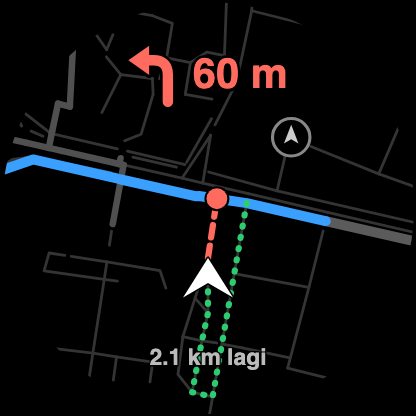
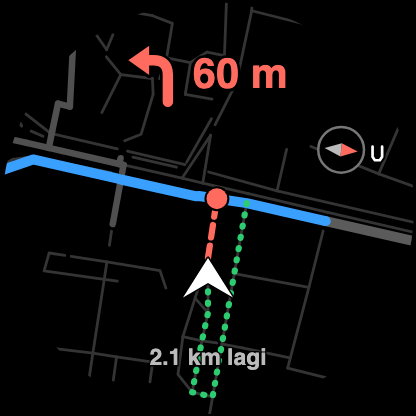
0.3.1-beta: north indicator, calmer compass, explore mode removed
- Real north indicator (red = north, U/N letter) on all nav screens, turns with the heading-up map
- Compass heading calmed while standing still: <5 deg ignored, big turns spread over a few steps
- Explore mode removed (setting, badge); off-route always vibrates once
- Store images: new north indicator, plus a destination route ready screen

Changed region(s): [[0.625, 0.2812, 0.9375, 0.4375]]

diff --git a/docs/store/render.html b/docs/store/render.html
@@ -8,7 +8,7 @@
 // (roads = "auto", alleys = "pedestrian"), metres east/north of the route start.
 // Map data © OpenStreetMap contributors (ODbL).
 // The ready screen shows a real 10.5 km foot loop around Monas (OSRM), the other screens Malioboro.
-// Usage: render.html?s=ready|approach|turn|off
+// Usage: render.html?s=ready|ready-dest|approach|turn|off
 const LOOP = [[0.0,0.0],[1.9,49.9],[13.0,49.8],[13.2,60.0],[37.1,59.5],[35.9,168.2],[105.6,173.1],[148.2,222.7],[171.0,222.2],[214.6,276.4],[225.1,330.2],[238.1,319.1],[260.8,321.1],[262.8,484.1],[307.7,590.6],[270.5,511.5],[260.5,464.4],[261.9,302.5],[273.2,282.3],[303.9,280.3],[396.4,330.9],[403.2,324.7],[446.5,355.0],[475.9,359.6],[663.1,463.7],[675.2,477.9],[696.4,468.0],[696.1,456.5],[720.6,439.0],[754.5,359.2],[785.6,329.5],[789.0,292.4],[922.4,66.8],[1000.9,-34.0],[1014.7,-42.0],[1007.8,-62.4],[1014.7,-42.0],[1073.0,-5.2],[1215.6,118.4],[1380.2,-73.3],[1244.2,-190.7],[1189.8,-252.4],[1193.6,-286.9],[1279.2,-410.4],[1239.0,-467.8],[1291.7,-620.4],[1281.4,-626.2],[1286.4,-634.1],[1275.6,-648.4],[1279.1,-659.5],[1176.7,-692.0],[1209.5,-819.3],[1319.1,-1134.1],[1271.2,-1152.9],[1227.5,-1181.7],[1197.3,-1184.6],[1188.5,-1209.4],[1217.9,-1208.2],[1209.5,-1319.6],[1238.9,-1321.3],[1250.0,-1398.9],[1307.3,-1395.6],[1228.8,-1400.1],[1137.3,-1374.7],[1122.2,-1408.3],[1121.5,-1435.7],[1095.3,-1452.5],[1072.0,-1415.4],[1034.0,-1437.2],[988.2,-1431.7],[984.7,-1464.4],[765.3,-1460.4],[762.6,-1508.1],[685.4,-1384.5],[672.7,-1394.1],[665.7,-1420.3],[648.2,-1430.1],[654.3,-1448.1],[653.8,-1576.3],[644.9,-1594.6],[513.6,-1714.5],[494.5,-1722.1],[482.0,-1746.1],[302.9,-1922.9],[292.1,-1966.0],[291.3,-2225.8],[-191.9,-2154.4],[-197.0,-2146.1],[-218.1,-2142.4],[-220.7,-2076.9],[-333.2,-2078.5],[-334.4,-2050.7],[-443.6,-2053.2],[-445.3,-1988.3],[-480.0,-1988.5],[-479.5,-2095.9],[-512.5,-2146.7],[-526.0,-2154.6],[-527.9,-2178.9],[-515.2,-2183.0],[-527.9,-2178.9],[-526.0,-2154.6],[-512.5,-2146.7],[-479.0,-2092.5],[-484.5,-1519.5],[-484.1,-1500.1],[-475.7,-1500.7],[-468.3,-1314.2],[-476.1,-1313.8],[-474.5,-1287.3],[-466.3,-1287.5],[-459.8,-1179.8],[-472.6,-904.7],[-434.6,-896.6],[-447.8,-834.2],[-458.2,-648.8],[-455.7,-630.3],[-435.7,-616.6],[-442.1,-550.6],[-433.1,-542.1],[-420.5,-554.2],[-311.0,-419.4],[-280.6,-425.9],[-306.0,-431.8],[-367.5,-509.4],[-306.0,-431.8],[-274.9,-420.8],[-288.2,-391.9],[-159.9,-233.5],[-143.5,-245.0],[-97.2,-193.4],[-37.0,-193.0],[-36.9,-80.6],[-14.5,-81.3],[-14.3,-72.1],[-1.1,-72.3],[-0.6,-30.4],[17.9,-30.6],[18.5,6.7],[0.2,6.9],[0.0,0.0]];   // real OSRM foot loop: Monas → Medan Merdeka → Cikini → Menteng → Bundaran HI → Thamrin → Monas
 const D = {"route":[[0.0,0.0],[0.0,0.0],[-1.7,-25.8],[-1.1,-27.4],[-3.2,-55.8],[-8.5,-104.1],[-13.3,-141.9],[-14.8,-153.2],[47.9,-160.5],[47.4,-164.0],[15.6,-414.6],[15.0,-419.2],[-0.3,-539.2],[9.5,-539.1],[17.8,-539.2],[5.2,-641.5],[-4.6,-720.6],[-6.9,-768.1],[-6.3,-771.7],[-15.4,-846.2],[-16.0,-850.2],[-24.3,-917.9],[-26.4,-934.3],[-11.5,-966.7],[-13.3,-968.0],[-13.5,-969.9],[-13.6,-973.4],[-13.7,-979.3],[-13.8,-985.6],[-15.7,-985.5],[-27.1,-985.6],[-28.7,-985.6],[-30.0,-985.7],[-31.4,-985.9],[-32.8,-986.2],[-34.2,-986.8],[-35.5,-987.3],[-36.7,-987.8],[-37.9,-988.4],[-39.2,-989.2],[-40.4,-989.9],[-41.5,-990.8],[-42.2,-991.7],[-43.0,-992.6],[-43.6,-993.5],[-43.8,-994.5],[-48.0,-1028.0],[-47.6,-1028.7],[-46.9,-1029.0],[-45.0,-1029.1],[-45.2,-1031.6],[-45.7,-1034.9],[-47.1,-1046.6],[-52.3,-1089.9],[-53.9,-1104.1],[-55.8,-1120.8],[-57.7,-1139.3],[-16.1,-1143.2],[23.9,-1146.7],[26.4,-1147.2],[28.7,-1147.8],[30.6,-1148.8],[32.2,-1149.8],[34.1,-1151.3],[35.7,-1152.6],[38.2,-1155.1],[40.3,-1157.8],[42.4,-1160.6],[44.0,-1163.2],[45.4,-1165.8],[46.9,-1168.4],[48.0,-1171.1],[49.0,-1173.5],[49.7,-1175.8],[50.6,-1178.8],[51.2,-1181.2],[51.4,-1183.3],[51.5,-1185.3],[51.4,-1187.2],[113.6,-1194.7],[128.9,-1196.5],[164.1,-1200.7],[163.7,-1207.6],[161.6,-1229.4],[161.4,-1244.0],[161.4,-1246.9],[163.5,-1272.8],[163.6,-1300.8],[164.0,-1346.0],[164.8,-1374.0],[167.4,-1398.9],[167.6,-1413.7],[169.4,-1430.5],[169.6,-1437.2],[170.7,-1466.2],[171.5,-1484.7],[172.9,-1504.0],[175.5,-1526.3],[181.3,-1575.5],[183.4,-1591.9],[235.1,-1589.2],[296.1,-1588.8],[297.0,-1645.1],[297.9,-1695.9],[298.7,-1755.2],[298.9,-1764.6],[298.7,-1769.9],[298.8,-1793.2],[298.9,-1831.1],[384.1,-1834.6],[418.4,-1835.1],[431.7,-1835.3],[431.1,-1842.4],[429.8,-1859.6],[427.4,-1890.8],[422.7,-1950.6],[418.3,-2023.8],[414.1,-2091.0],[409.2,-2134.9],[408.0,-2152.1],[406.1,-2178.0],[398.6,-2278.6],[421.0,-2280.1]],"roads":[{"c":1,"p":[[0.0,0.0],[-1.7,-25.8]]},{"c":1,"p":[[75.1,-9.2],[59.8,-132.1]]},{"c":1,"p":[[59.8,-132.1],[56.0,-161.4]]},{"c":1,"p":[[56.0,-161.4],[52.8,-187.4]]},{"c":1,"p":[[56.0,-161.4],[47.9,-160.5]]},{"c":1,"p":[[47.9,-160.5],[-14.8,-153.2]]},{"c":1,"p":[[-14.8,-153.2],[-22.8,-152.2]]},{"c":1,"p":[[52.8,-187.4],[30.7,-364.2]]},{"c":1,"p":[[-22.8,-152.2],[-132.2,-139.5]]},{"c":1,"p":[[-132.2,-139.5],[-174.5,-134.6]]},{"c":1,"p":[[-22.8,-152.2],[-18.9,-112.8],[-45.4,-110.1]]},{"c":1,"p":[[-132.2,-139.5],[-132.4,-119.6]]},{"c":1,"p":[[59.8,-132.1],[62.8,-132.2]]},{"c":1,"p":[[62.8,-132.2],[68.2,-132.5]]},{"c":1,"p":[[68.2,-132.5],[71.1,-132.8]]},{"c":1,"p":[[71.1,-132.8],[229.6,-140.9]]},{"c":1,"p":[[14.9,-419.2],[-66.5,-409.2]]},{"c":1,"p":[[-66.5,-409.2],[-110.2,-403.9]]},{"c":1,"p":[[-110.2,-403.9],[-132.1,-401.1]]},{"c":1,"p":[[-132.1,-401.1],[-151.0,-398.9]]},{"c":1,"p":[[-151.0,-398.9],[-186.1,-394.6]]},{"c":1,"p":[[-66.5,-409.2],[-66.1,-405.5]]},{"c":1,"p":[[-132.1,-401.1],[-129.0,-365.0]]},{"c":1,"p":[[-129.0,-365.0],[-113.5,-227.4]]},{"c":1,"p":[[-66.1,-405.5],[-61.0,-347.6]]},{"c":1,"p":[[-15.4,-846.2],[-30.0,-845.0]]},{"c":1,"p":[[-15.4,-846.2],[29.0,-849.8]]},{"c":1,"p":[[-30.0,-845.0],[-30.4,-849.4]]},{"c":1,"p":[[-30.4,-849.4],[-37.6,-906.8]]},{"c":1,"p":[[-37.6,-906.8],[-39.3,-920.0]]},{"c":1,"p":[[-39.3,-920.0],[-42.0,-942.1]]},{"c":1,"p":[[-42.0,-942.1],[-46.0,-974.4]]},{"c":1,"p":[[-46.0,-974.4],[-16.2,-973.3]]},{"c":1,"p":[[-16.2,-973.3],[-13.6,-973.4]]},{"c":1,"p":[[-46.0,-974.4],[-49.6,-1002.4]]},{"c":1,"p":[[-49.6,-1002.4],[-50.6,-1010.2]]},{"c":1,"p":[[-46.0,-974.4],[-78.9,-973.3]]},{"c":1,"p":[[-13.6,-973.4],[57.1,-976.0]]},{"c":1,"p":[[-50.6,-1010.2],[-53.3,-1030.7]]},{"c":1,"p":[[-53.3,-1030.7],[-55.1,-1045.7]]},{"c":1,"p":[[-55.1,-1045.7],[-56.2,-1053.9]]},{"c":1,"p":[[-56.2,-1053.9],[-60.7,-1089.2]]},{"c":1,"p":[[-78.9,-973.3],[-185.0,-969.5]]},{"c":1,"p":[[57.1,-976.0],[56.9,-978.6]]},{"c":1,"p":[[-185.0,-969.5],[-202.7,-968.9]]},{"c":1,"p":[[-60.7,-1089.2],[-67.1,-1138.6]]},{"c":1,"p":[[57.1,-976.0],[188.7,-980.5]]},{"c":1,"p":[[-202.7,-968.9],[-293.7,-965.6]]},{"c":1,"p":[[-67.1,-1138.6],[-57.7,-1139.3]]},{"c":1,"p":[[-67.1,-1138.6],[-67.9,-1145.1]]},{"c":1,"p":[[-57.7,-1139.3],[-16.1,-1143.2]]},{"c":1,"p":[[-67.9,-1145.1],[-119.9,-1140.3]]},{"c":1,"p":[[-185.0,-969.5],[-185.5,-975.7]]},{"c":1,"p":[[-185.5,-975.7],[-185.8,-978.8]]},{"c":1,"p":[[-53.3,-1030.7],[-45.3,-1031.6]]},{"c":1,"p":[[-50.6,-1010.2],[-55.8,-1009.6]]},{"c":1,"p":[[-55.8,-1009.6],[-60.1,-1009.0]]},{"c":1,"p":[[-60.1,-1009.0],[-62.6,-1008.7]]},{"c":1,"p":[[-45.3,-1031.6],[-9.5,-1036.0]]},{"c":1,"p":[[-30.4,-849.4],[-36.2,-848.6]]},{"c":1,"p":[[-39.3,-920.0],[-53.7,-918.5]]},{"c":1,"p":[[-53.7,-918.5],[-55.9,-918.3]]},{"c":1,"p":[[-185.8,-978.8],[-190.6,-1036.6]]},{"c":1,"p":[[-55.9,-918.3],[-83.6,-915.3]]},{"c":1,"p":[[-83.6,-915.3],[-81.9,-903.4]]},{"c":1,"p":[[-81.9,-903.4],[-164.2,-907.4]]},{"c":1,"p":[[-164.2,-907.4],[-159.7,-888.7]]},{"c":1,"p":[[-16.1,-1143.2],[32.2,-1149.8],[51.4,-1187.2]]},{"c":1,"p":[[51.4,-1187.2],[45.6,-1186.5]]},{"c":1,"p":[[113.6,-1194.7],[51.4,-1187.2]]},{"c":1,"p":[[128.9,-1196.5],[113.6,-1194.7]]},{"c":1,"p":[[51.4,-1187.2],[40.6,-1273.4]]},{"c":1,"p":[[164.0,-1200.7],[128.9,-1196.5]]},{"c":1,"p":[[164.0,-1200.7],[198.5,-1204.9]]},{"c":1,"p":[[40.6,-1273.4],[34.7,-1272.6]]},{"c":1,"p":[[40.6,-1273.4],[25.4,-1394.6]]},{"c":1,"p":[[25.4,-1394.6],[18.6,-1397.9]]},{"c":1,"p":[[198.5,-1204.9],[246.1,-1210.5]]},{"c":1,"p":[[164.0,-1200.7],[169.7,-1140.3]]},{"c":1,"p":[[161.6,-1229.4],[164.0,-1200.7]]},{"c":1,"p":[[161.4,-1244.0],[161.6,-1229.4]]},{"c":1,"p":[[161.4,-1246.9],[161.4,-1244.0]]},{"c":1,"p":[[18.6,-1397.9],[19.1,-1393.9]]},{"c":1,"p":[[246.1,-1210.5],[319.7,-1219.4]]},{"c":1,"p":[[319.7,-1219.4],[343.3,-1222.1]]},{"c":1,"p":[[161.4,-1246.9],[168.2,-1245.9]]},{"c":1,"p":[[343.3,-1222.1],[402.8,-1229.3]]},{"c":1,"p":[[19.1,-1393.9],[34.7,-1272.6]]},{"c":1,"p":[[164.0,-1346.0],[161.4,-1246.9]]},{"c":1,"p":[[168.2,-1245.9],[261.4,-1251.3]]},{"c":1,"p":[[289.7,-1254.7],[261.4,-1251.3]]},{"c":1,"p":[[167.4,-1398.9],[164.0,-1346.0]]},{"c":1,"p":[[261.4,-1251.3],[260.8,-1262.4]]},{"c":1,"p":[[164.0,-1346.0],[85.9,-1345.6]]},{"c":1,"p":[[198.5,-1204.9],[201.1,-1148.3]]},{"c":1,"p":[[289.7,-1254.7],[419.3,-1277.0]]},{"c":1,"p":[[293.0,-1346.6],[289.7,-1254.7]]},{"c":1,"p":[[319.7,-1219.4],[320.9,-1198.4]]},{"c":1,"p":[[320.9,-1198.4],[322.2,-1178.9]]},{"c":1,"p":[[18.6,-1397.9],[-27.9,-1393.8]]},{"c":1,"p":[[-27.9,-1393.8],[-33.2,-1453.2]]},{"c":1,"p":[[-27.9,-1393.8],[-192.0,-1378.9]]},{"c":1,"p":[[128.9,-1196.5],[116.2,-1183.1],[113.6,-1194.7]]},{"c":1,"p":[[246.1,-1210.5],[246.2,-1206.4]]},{"c":1,"p":[[246.2,-1206.4],[246.5,-1197.4]]},{"c":1,"p":[[246.5,-1197.4],[247.2,-1183.0]]},{"c":1,"p":[[247.2,-1183.0],[248.5,-1149.3]]},{"c":1,"p":[[247.2,-1183.0],[279.9,-1183.0],[282.3,-1155.8]]},{"c":1,"p":[[169.6,-1437.2],[169.4,-1430.5]]},{"c":1,"p":[[169.4,-1430.5],[167.4,-1398.9]]},{"c":1,"p":[[169.6,-1437.2],[175.5,-1526.3]]},{"c":1,"p":[[294.5,-1433.5],[169.6,-1437.2]]},{"c":1,"p":[[175.5,-1526.3],[181.3,-1575.5]]},{"c":1,"p":[[181.3,-1575.5],[183.3,-1591.9]]},{"c":1,"p":[[294.5,-1433.5],[293.5,-1373.8]]},{"c":1,"p":[[175.5,-1526.3],[98.2,-1530.3]]},{"c":1,"p":[[296.2,-1522.9],[175.5,-1526.3]]},{"c":1,"p":[[293.5,-1373.8],[293.0,-1346.6]]},{"c":1,"p":[[294.5,-1433.5],[355.0,-1432.4]]},{"c":1,"p":[[183.3,-1591.9],[187.4,-1645.2]]},{"c":1,"p":[[355.0,-1432.4],[379.6,-1432.3]]},{"c":1,"p":[[98.2,-1530.3],[66.0,-1532.0]]},{"c":1,"p":[[66.0,-1532.0],[58.3,-1534.1]]},{"c":1,"p":[[296.2,-1522.9],[294.5,-1433.5]]},{"c":1,"p":[[379.6,-1432.3],[413.8,-1431.6]]},{"c":1,"p":[[187.4,-1645.2],[189.7,-1693.7]]},{"c":1,"p":[[98.2,-1530.3],[97.4,-1565.6]]},{"c":1,"p":[[58.3,-1534.1],[13.7,-1554.0]]},{"c":1,"p":[[296.1,-1588.8],[296.2,-1522.9]]},{"c":1,"p":[[189.7,-1693.7],[176.8,-1746.8]]},{"c":1,"p":[[176.8,-1746.8],[173.4,-1765.1]]},{"c":1,"p":[[13.7,-1554.0],[10.3,-1583.0]]},{"c":1,"p":[[251.9,-1694.9],[189.7,-1693.7]]},{"c":1,"p":[[296.2,-1522.9],[408.4,-1518.2]]},{"c":1,"p":[[297.0,-1645.1],[296.1,-1588.8]]},{"c":1,"p":[[10.3,-1583.0],[7.7,-1621.1]]},{"c":1,"p":[[297.9,-1695.9],[251.9,-1694.9]]},{"c":1,"p":[[297.9,-1695.9],[297.0,-1645.1]]},{"c":1,"p":[[10.3,-1583.0],[-6.1,-1564.1]]},{"c":1,"p":[[413.8,-1431.6],[408.4,-1518.2]]},{"c":1,"p":[[173.4,-1765.1],[162.3,-1823.1]]},{"c":1,"p":[[413.8,-1431.6],[422.9,-1282.4]]},{"c":1,"p":[[7.7,-1621.1],[29.6,-1624.2]]},{"c":1,"p":[[7.7,-1621.1],[-1.4,-1702.5]]},{"c":1,"p":[[-6.1,-1564.1],[13.7,-1554.0]]},{"c":1,"p":[[-6.1,-1564.1],[-69.4,-1561.2]]},{"c":1,"p":[[398.9,-1645.9],[408.4,-1518.2]]},{"c":1,"p":[[293.0,-1346.6],[223.3,-1346.4]]},{"c":1,"p":[[223.3,-1346.4],[205.5,-1346.3]]},{"c":1,"p":[[223.3,-1346.4],[223.0,-1328.1]]},{"c":1,"p":[[298.9,-1764.6],[173.4,-1765.1]]},{"c":1,"p":[[298.7,-1755.2],[298.9,-1764.6]]},{"c":1,"p":[[298.7,-1755.2],[314.9,-1755.0]]},{"c":1,"p":[[314.9,-1755.0],[320.9,-1755.0]]},{"c":1,"p":[[298.9,-1764.6],[298.7,-1769.9]]},{"c":1,"p":[[320.9,-1755.0],[332.5,-1754.9]]},{"c":1,"p":[[298.7,-1755.2],[297.9,-1695.9]]},{"c":1,"p":[[298.7,-1769.9],[298.9,-1831.1]]},{"c":1,"p":[[298.7,-1769.9],[389.7,-1773.5]]},{"c":1,"p":[[384.1,-1834.6],[298.9,-1831.1]]},{"c":1,"p":[[384.1,-1834.6],[389.7,-1773.5]]},{"c":1,"p":[[298.9,-1831.1],[161.8,-1829.4]]},{"c":1,"p":[[431.7,-1835.3],[384.1,-1834.6]]},{"c":1,"p":[[389.7,-1773.5],[398.9,-1645.9]]},{"c":1,"p":[[384.1,-1834.6],[379.2,-1910.4]]},{"c":1,"p":[[161.8,-1829.4],[153.2,-1890.6]]},{"c":1,"p":[[162.3,-1823.1],[161.8,-1829.4]]},{"c":1,"p":[[431.7,-1835.3],[440.7,-1721.5]]},{"c":1,"p":[[379.2,-1910.4],[373.3,-1991.9]]},{"c":1,"p":[[429.8,-1859.5],[431.7,-1835.3]]},{"c":1,"p":[[427.4,-1890.8],[429.8,-1859.5]]},{"c":1,"p":[[429.8,-1859.5],[435.2,-1859.7]]},{"c":1,"p":[[153.2,-1890.6],[145.4,-1970.6]]},{"c":1,"p":[[422.7,-1950.6],[427.4,-1890.8]]},{"c":1,"p":[[440.7,-1721.5],[446.8,-1600.6]]},{"c":1,"p":[[373.3,-1991.9],[368.0,-2071.9]]},{"c":1,"p":[[373.3,-1991.9],[358.9,-1990.8]]},{"c":1,"p":[[440.7,-1721.5],[493.0,-1718.5]]},{"c":1,"p":[[358.9,-1990.8],[342.0,-1989.3]]},{"c":1,"p":[[153.2,-1890.6],[30.6,-1879.1]]},{"c":1,"p":[[418.3,-2023.8],[422.7,-1950.6]]},{"c":1,"p":[[153.2,-1890.6],[379.2,-1910.4]]},{"c":1,"p":[[422.7,-1950.6],[433.8,-1951.0]]},{"c":1,"p":[[433.8,-1951.0],[434.8,-1951.0]]},{"c":1,"p":[[435.2,-1859.7],[446.1,-1860.1]]},{"c":1,"p":[[446.1,-1860.1],[459.0,-1860.4]]},{"c":1,"p":[[459.0,-1860.4],[508.8,-1861.9]]},{"c":1,"p":[[508.8,-1861.9],[537.5,-1862.8]]},{"c":1,"p":[[446.1,-1860.1],[440.1,-1890.7],[427.4,-1890.8]]},{"c":1,"p":[[434.8,-1951.0],[451.5,-1940.9]]},{"c":1,"p":[[409.2,-2134.9],[414.1,-2091.0]]},{"c":1,"p":[[414.1,-2091.0],[418.3,-2023.8]]},{"c":1,"p":[[409.2,-2134.9],[398.6,-2278.6]]},{"c":1,"p":[[398.6,-2278.6],[394.1,-2340.7]]},{"c":1,"p":[[418.3,-2023.8],[457.9,-2025.4]]},{"c":1,"p":[[394.1,-2340.7],[390.5,-2368.0]]},{"c":1,"p":[[390.5,-2368.0],[393.5,-2440.9]]},{"c":1,"p":[[394.1,-2340.7],[462.8,-2347.4]]},{"c":1,"p":[[462.8,-2347.4],[484.0,-2312.7]]},{"c":1,"p":[[409.2,-2134.9],[443.8,-2138.2]]},{"c":1,"p":[[443.8,-2138.2],[475.6,-2139.8]]},{"c":1,"p":[[475.6,-2139.8],[513.4,-2144.5]]},{"c":1,"p":[[513.4,-2144.5],[516.8,-2145.0]]},{"c":1,"p":[[516.8,-2145.0],[537.0,-2148.2]]},{"c":1,"p":[[537.0,-2148.2],[566.6,-2152.8]]},{"c":1,"p":[[537.0,-2148.2],[542.1,-2117.7]]},{"c":1,"p":[[566.6,-2152.8],[597.1,-2160.9]]},{"c":1,"p":[[597.1,-2160.9],[668.5,-2170.6]]},{"c":1,"p":[[451.5,-1940.9],[517.4,-1939.6],[522.7,-1966.6],[573.4,-1974.6]]},{"c":1,"p":[[573.4,-1974.6],[617.3,-1981.2]]},{"c":1,"p":[[393.5,-2440.9],[393.9,-2451.2]]},{"c":1,"p":[[393.5,-2440.9],[447.2,-2445.4]]},{"c":1,"p":[[447.2,-2445.4],[458.7,-2452.0]]},{"c":1,"p":[[458.7,-2452.0],[501.7,-2459.6]]},{"c":1,"p":[[501.7,-2459.6],[549.8,-2468.1]]},{"c":1,"p":[[393.9,-2451.2],[385.8,-2452.4]]},{"c":1,"p":[[385.8,-2452.4],[373.1,-2457.0]]},{"c":1,"p":[[373.1,-2457.0],[356.4,-2463.2]]},{"c":1,"p":[[356.4,-2463.2],[356.5,-2480.4]]},{"c":1,"p":[[373.1,-2457.0],[385.2,-2446.4]]},{"c":1,"p":[[356.4,-2463.2],[342.0,-2460.7]]},{"c":1,"p":[[356.4,-2463.2],[355.4,-2453.2]]},{"c":1,"p":[[385.2,-2446.4],[385.0,-2442.3]]},{"c":1,"p":[[356.5,-2480.4],[373.1,-2457.0]]},{"c":1,"p":[[342.0,-2460.7],[261.3,-2450.9]]},{"c":1,"p":[[356.5,-2480.4],[342.0,-2460.7]]},{"c":1,"p":[[385.0,-2442.3],[391.0,-2441.3]]},{"c":1,"p":[[385.2,-2446.4],[391.0,-2441.3]]},{"c":1,"p":[[391.0,-2441.3],[393.5,-2440.9]]},{"c":1,"p":[[385.0,-2442.3],[390.5,-2368.0]]},{"c":1,"p":[[501.7,-2459.6],[503.4,-2449.2]]},{"c":1,"p":[[553.6,-2460.8],[568.2,-2371.6]]},{"c":1,"p":[[484.0,-2312.7],[486.4,-2290.9]]},{"c":1,"p":[[486.4,-2290.9],[516.9,-2291.9]]},{"c":1,"p":[[484.0,-2312.7],[547.9,-2319.5],[553.4,-2281.1]]},{"c":1,"p":[[486.4,-2290.9],[492.3,-2233.2],[558.6,-2241.8]]},{"c":1,"p":[[553.4,-2281.1],[558.6,-2241.8]]},{"c":1,"p":[[553.4,-2281.1],[587.0,-2284.8]]},{"c":1,"p":[[558.6,-2241.8],[562.5,-2197.2]]},{"c":1,"p":[[587.0,-2284.8],[568.2,-2371.6]]},{"c":1,"p":[[503.4,-2449.2],[509.2,-2411.4]]},{"c":0,"p":[[-1.7,-25.8],[-3.2,-55.8]]},{"c":0,"p":[[-3.2,-55.8],[-38.1,-55.3]]},{"c":0,"p":[[-1.7,-25.8],[-65.6,-16.8],[-76.9,3.8]]},{"c":0,"p":[[-79.5,12.5],[-83.0,30.1]]},{"c":0,"p":[[-83.0,30.1],[-86.7,42.0]]},{"c":0,"p":[[-13.3,-141.9],[-3.2,-55.8]]},{"c":0,"p":[[-79.5,12.5],[-48.4,30.1]]},{"c":0,"p":[[-86.7,42.0],[-90.0,97.6]]},{"c":0,"p":[[-90.0,97.6],[-70.8,96.9]]},{"c":0,"p":[[-90.0,97.6],[-127.3,100.1]]},{"c":0,"p":[[-70.8,96.9],[-30.6,94.4]]},{"c":0,"p":[[-127.3,100.1],[-149.2,101.1]]},{"c":0,"p":[[-70.8,96.9],[-74.3,157.9]]},{"c":0,"p":[[-149.2,101.1],[-172.7,102.1]]},{"c":0,"p":[[-30.6,94.4],[-6.4,92.9]]},{"c":0,"p":[[-30.6,94.4],[-30.2,117.3]]},{"c":0,"p":[[64.5,-188.5],[105.0,-191.8]]},{"c":0,"p":[[61.2,-188.1],[68.2,-132.5]]},{"c":0,"p":[[-6.4,92.9],[46.7,89.8]]},{"c":0,"p":[[-74.3,157.9],[-72.2,221.6]]},{"c":0,"p":[[-74.3,157.9],[-5.0,159.1]]},{"c":0,"p":[[105.0,-191.8],[105.0,-217.0]]},{"c":0,"p":[[46.7,89.8],[79.4,88.0]]},{"c":0,"p":[[-174.5,-134.6],[-181.3,-216.7]]},{"c":0,"p":[[48.3,-156.6],[71.5,25.5]]},{"c":0,"p":[[-186.2,-133.3],[-317.1,-118.1]]},{"c":0,"p":[[39.9,-360.1],[61.2,-188.1]]},{"c":0,"p":[[105.0,-191.8],[235.0,-196.1]]},{"c":0,"p":[[15.6,-414.6],[47.4,-164.0]]},{"c":0,"p":[[-186.2,-133.3],[-196.0,-67.3]]},{"c":0,"p":[[68.2,-132.5],[82.5,-15.9]]},{"c":0,"p":[[-79.5,12.5],[-106.5,8.0]]},{"c":0,"p":[[-106.5,8.0],[-138.1,1.0]]},{"c":0,"p":[[-138.1,1.0],[-150.4,-2.2]]},{"c":0,"p":[[-150.4,-2.2],[-173.4,-5.3]]},{"c":0,"p":[[-106.5,8.0],[-96.6,-75.4],[-126.5,-90.0]]},{"c":0,"p":[[-138.1,1.0],[-126.5,-90.0]]},{"c":0,"p":[[-126.5,-90.0],[-132.4,-119.6]]},{"c":0,"p":[[-127.3,100.1],[-114.2,199.0]]},{"c":0,"p":[[-6.4,92.9],[-5.0,159.1]]},{"c":0,"p":[[-149.2,101.1],[-151.1,40.2]]},{"c":0,"p":[[-172.7,102.1],[-174.5,40.1]]},{"c":0,"p":[[-23.5,-155.4],[-26.1,-174.3]]},{"c":0,"p":[[-113.5,-227.4],[-46.7,-236.8],[-26.1,-174.3]]},{"c":0,"p":[[23.7,-420.3],[30.7,-364.2]]},{"c":0,"p":[[33.0,-416.6],[36.4,-379.5]]},{"c":0,"p":[[33.0,-416.6],[38.8,-369.0]]},{"c":0,"p":[[39.4,-365.1],[68.3,-368.0]]},{"c":0,"p":[[-0.3,-539.2],[14.9,-419.2]]},{"c":0,"p":[[9.5,-539.1],[23.7,-420.3]]},{"c":0,"p":[[17.8,-539.2],[32.4,-420.9]]},{"c":0,"p":[[-0.3,-539.2],[-31.0,-532.6]]},{"c":0,"p":[[32.4,-420.9],[185.5,-433.8]]},{"c":0,"p":[[-31.0,-532.6],[-84.4,-520.9]]},{"c":0,"p":[[185.5,-433.8],[189.7,-403.7]]},{"c":0,"p":[[-3.6,-640.2],[9.5,-539.1]]},{"c":0,"p":[[-110.2,-403.9],[-129.6,-509.5]]},{"c":0,"p":[[185.5,-433.8],[257.2,-439.7]]},{"c":0,"p":[[-84.4,-520.9],[-129.6,-509.5]]},{"c":0,"p":[[-19.7,-692.0],[-0.3,-539.2]]},{"c":0,"p":[[-129.0,-365.0],[-189.8,-356.2]]},{"c":0,"p":[[5.1,-641.5],[17.8,-539.2]]},{"c":0,"p":[[-84.4,-520.9],[-103.2,-576.1]]},{"c":0,"p":[[-31.8,-535.7],[-46.3,-594.0]]},{"c":0,"p":[[17.8,-539.2],[170.6,-544.5]]},{"c":0,"p":[[-151.0,-398.9],[-173.6,-501.5]]},{"c":0,"p":[[185.5,-433.8],[170.6,-544.5]]},{"c":0,"p":[[-132.8,-508.9],[-173.6,-501.5]]},{"c":0,"p":[[-14.0,-719.9],[-10.6,-693.1]]},{"c":0,"p":[[-103.2,-576.1],[-139.1,-564.9]]},{"c":0,"p":[[-19.7,-692.0],[-61.2,-686.7]]},{"c":0,"p":[[-10.6,-693.1],[-3.6,-640.2]]},{"c":0,"p":[[-132.8,-508.9],[-139.1,-564.9]]},{"c":0,"p":[[15.2,-642.9],[71.8,-651.3]]},{"c":0,"p":[[-103.2,-576.1],[-46.3,-594.0]]},{"c":0,"p":[[-173.6,-501.5],[-208.1,-492.2]]},{"c":0,"p":[[-31.4,-761.0],[-19.7,-692.0]]},{"c":0,"p":[[-4.6,-720.6],[5.1,-641.5]]},{"c":0,"p":[[-46.3,-594.0],[-66.5,-663.2]]},{"c":0,"p":[[170.6,-544.5],[224.8,-544.6]]},{"c":0,"p":[[-20.0,-765.6],[-14.0,-719.9]]},{"c":0,"p":[[-173.6,-501.5],[-189.5,-584.3]]},{"c":0,"p":[[-6.3,-771.7],[-4.6,-720.6]]},{"c":0,"p":[[65.8,-725.8],[71.8,-651.3]]},{"c":0,"p":[[-4.6,-720.6],[65.8,-725.8]]},{"c":0,"p":[[-189.8,-356.2],[-181.3,-216.7]]},{"c":0,"p":[[71.8,-651.3],[153.0,-664.2]]},{"c":0,"p":[[-113.5,-227.4],[-181.3,-216.7]]},{"c":0,"p":[[68.3,-368.0],[111.8,-372.3]]},{"c":0,"p":[[111.8,-372.3],[167.4,-377.9]]},{"c":0,"p":[[111.8,-372.3],[117.0,-310.6]]},{"c":0,"p":[[167.4,-377.9],[190.8,-395.4]]},{"c":0,"p":[[190.8,-395.4],[206.0,-396.2]]},{"c":0,"p":[[206.0,-396.2],[244.5,-398.1]]},{"c":0,"p":[[167.4,-377.9],[182.6,-365.4]]},{"c":0,"p":[[206.0,-396.2],[207.3,-382.1]]},{"c":0,"p":[[117.0,-310.6],[148.5,-313.5]]},{"c":0,"p":[[207.3,-382.1],[203.2,-368.5]]},{"c":0,"p":[[182.6,-365.4],[203.2,-368.5]]},{"c":0,"p":[[170.6,-544.5],[153.0,-664.2]]},{"c":0,"p":[[182.6,-365.4],[183.1,-341.3]]},{"c":0,"p":[[117.0,-310.6],[124.3,-222.2],[141.6,-199.9],[309.3,-204.6]]},{"c":0,"p":[[207.3,-382.1],[245.3,-385.3]]},{"c":0,"p":[[203.2,-368.5],[204.8,-342.8]]},{"c":0,"p":[[183.1,-341.3],[204.8,-342.8]]},{"c":0,"p":[[148.5,-313.5],[172.1,-316.1],[183.1,-341.3]]},{"c":0,"p":[[204.8,-342.8],[209.8,-318.0]]},{"c":0,"p":[[148.5,-313.5],[151.2,-241.2]]},{"c":0,"p":[[209.8,-318.0],[257.3,-320.1]]},{"c":0,"p":[[209.8,-318.0],[213.0,-268.1]]},{"c":0,"p":[[-26.8,-912.6],[-21.3,-856.5]]},{"c":0,"p":[[-24.3,-917.9],[-16.0,-850.2]]},{"c":0,"p":[[36.1,-850.3],[50.2,-851.0]]},{"c":0,"p":[[-30.0,-845.0],[-22.7,-786.4]]},{"c":0,"p":[[-26.4,-934.3],[-24.3,-917.9]]},{"c":0,"p":[[-15.4,-846.2],[-6.3,-771.7]]},{"c":0,"p":[[-27.5,-941.8],[-28.0,-922.7]]},{"c":0,"p":[[-24.4,-954.2],[-27.5,-941.8]]},{"c":0,"p":[[-22.7,-786.4],[-20.0,-765.6]]},{"c":0,"p":[[-22.7,-786.4],[-36.4,-779.1]]},{"c":0,"p":[[-13.5,-969.9],[-24.4,-954.2]]},{"c":0,"p":[[-20.0,-765.6],[-32.0,-764.8]]},{"c":0,"p":[[-11.5,-966.7],[-26.4,-934.3]]},{"c":0,"p":[[-7.8,-966.8],[-24.4,-954.2]]},{"c":0,"p":[[-54.0,-939.0],[-50.2,-926.8]]},{"c":0,"p":[[-36.4,-779.1],[-67.6,-762.6]]},{"c":0,"p":[[-32.0,-764.8],[-67.6,-762.6]]},{"c":0,"p":[[66.7,-851.8],[84.2,-852.7]]},{"c":0,"p":[[-78.6,-966.9],[-58.1,-948.7]]},{"c":0,"p":[[-84.0,-965.6],[-58.1,-948.7]]},{"c":0,"p":[[-32.9,-792.9],[-38.5,-836.7]]},{"c":0,"p":[[-38.7,-783.5],[-83.8,-763.4]]},{"c":0,"p":[[84.2,-852.7],[84.6,-839.6]]},{"c":0,"p":[[-38.9,-995.3],[-19.1,-989.7]]},{"c":0,"p":[[-46.0,-974.4],[-16.5,-979.2]]},{"c":0,"p":[[-36.3,-784.8],[-43.8,-842.6]]},{"c":0,"p":[[66.7,-851.8],[64.9,-887.3]]},{"c":0,"p":[[-78.2,-759.3],[-121.7,-742.5]]},{"c":0,"p":[[-44.1,-1025.7],[-39.9,-1000.5]]},{"c":0,"p":[[-82.8,-965.7],[-53.9,-919.9]]},{"c":0,"p":[[-53.4,-916.3],[-45.0,-852.7]]},{"c":0,"p":[[-13.7,-979.3],[56.5,-981.9]]},{"c":0,"p":[[-14.9,-989.9],[43.9,-994.5]]},{"c":0,"p":[[66.7,-851.8],[70.1,-798.9],[86.7,-791.4]]},{"c":0,"p":[[-59.3,-1003.4],[-73.5,-982.3]]},{"c":0,"p":[[84.2,-852.7],[157.6,-856.6]]},{"c":0,"p":[[-45.0,-1029.1],[-40.9,-995.5]]},{"c":0,"p":[[54.2,-1002.3],[70.4,-998.0]]},{"c":0,"p":[[157.6,-856.6],[158.9,-833.0]]},{"c":0,"p":[[157.6,-856.6],[190.0,-858.2]]},{"c":0,"p":[[57.2,-1006.9],[86.5,-1009.0]]},{"c":0,"p":[[-65.5,-1052.6],[-60.1,-1009.0]]},{"c":0,"p":[[84.2,-852.7],[81.7,-912.5],[63.7,-909.3],[64.5,-893.7]]},{"c":0,"p":[[-52.3,-1089.9],[-47.1,-1046.6]]},{"c":0,"p":[[-121.7,-742.5],[-193.7,-734.6]]},{"c":0,"p":[[86.5,-1009.0],[87.0,-995.0]]},{"c":0,"p":[[158.9,-833.0],[181.9,-833.9]]},{"c":0,"p":[[-53.9,-1104.1],[-52.3,-1089.9]]},{"c":0,"p":[[-69.9,-1088.2],[-65.5,-1052.6]]},{"c":0,"p":[[-81.0,-981.0],[-185.5,-975.7]]},{"c":0,"p":[[-71.8,-1102.6],[-69.9,-1088.2]]},{"c":0,"p":[[157.6,-856.6],[156.6,-906.8],[185.0,-907.9]]},{"c":0,"p":[[-185.5,-975.7],[-203.5,-974.9]]},{"c":0,"p":[[65.8,-725.8],[136.1,-731.0]]},{"c":0,"p":[[158.9,-833.0],[160.6,-797.1],[180.1,-797.8]]},{"c":0,"p":[[-7.8,-966.8],[181.9,-973.6]]},{"c":0,"p":[[-57.7,-1139.3],[-53.9,-1104.1]]},{"c":0,"p":[[-40.9,-995.5],[50.2,-999.4]]},{"c":0,"p":[[56.5,-981.9],[169.3,-986.2]]},{"c":0,"p":[[-76.3,-1137.7],[-71.8,-1102.6]]},{"c":0,"p":[[86.5,-1009.0],[156.7,-1014.2]]},{"c":0,"p":[[60.6,-1010.8],[152.9,-1018.3]]},{"c":0,"p":[[135.4,-736.1],[134.9,-750.9]]},{"c":0,"p":[[-193.7,-734.6],[-261.1,-735.6]]},{"c":0,"p":[[169.3,-986.2],[168.4,-999.8]]},{"c":0,"p":[[134.9,-750.9],[132.5,-770.0]]},{"c":0,"p":[[167.4,-1015.0],[168.4,-999.8]]},{"c":0,"p":[[134.9,-750.9],[106.7,-747.7]]},{"c":0,"p":[[-76.3,-1137.7],[-119.4,-1133.8]]},{"c":0,"p":[[136.1,-731.0],[188.6,-734.9]]},{"c":0,"p":[[-84.0,-965.6],[-298.6,-958.5]]},{"c":0,"p":[[106.7,-747.7],[93.6,-761.8]]},{"c":0,"p":[[176.9,-1015.8],[196.3,-1017.3]]},{"c":0,"p":[[169.3,-986.2],[232.1,-988.7]]},{"c":0,"p":[[132.5,-770.0],[93.6,-761.8]]},{"c":0,"p":[[134.9,-750.9],[186.1,-755.5]]},{"c":0,"p":[[-203.9,-978.4],[-212.6,-1079.1]]},{"c":0,"p":[[188.6,-734.9],[186.1,-755.5]]},{"c":0,"p":[[-193.7,-734.6],[-176.9,-620.6]]},{"c":0,"p":[[93.6,-761.8],[52.9,-753.1]]},{"c":0,"p":[[106.7,-747.7],[52.9,-753.1]]},{"c":0,"p":[[132.5,-770.0],[170.1,-771.1],[186.1,-755.5]]},{"c":0,"p":[[199.1,-916.0],[199.1,-938.6],[179.4,-936.6]]},{"c":0,"p":[[188.6,-734.9],[356.9,-747.3]]},{"c":0,"p":[[-117.2,-760.1],[-120.2,-748.2]]},{"c":0,"p":[[-103.1,-764.8],[-105.1,-791.5]]},{"c":0,"p":[[-117.2,-760.1],[-147.1,-756.9]]},{"c":0,"p":[[-147.1,-756.9],[-148.7,-774.4]]},{"c":0,"p":[[-105.1,-791.5],[-136.9,-789.5]]},{"c":0,"p":[[55.3,-993.1],[87.0,-995.0]]},{"c":0,"p":[[-148.7,-774.4],[-136.9,-789.5]]},{"c":0,"p":[[-136.9,-789.5],[-139.0,-813.4]]},{"c":0,"p":[[-139.0,-813.4],[-118.1,-818.2]]},{"c":0,"p":[[-117.5,-825.2],[-102.1,-823.0]]},{"c":0,"p":[[-147.1,-756.9],[-233.6,-762.3]]},{"c":0,"p":[[-139.0,-813.4],[-173.5,-811.1],[-179.1,-831.2]]},{"c":0,"p":[[-117.5,-825.2],[-118.2,-856.6]]},{"c":0,"p":[[87.0,-995.0],[168.4,-999.8]]},{"c":0,"p":[[-179.1,-831.2],[-180.4,-848.4]]},{"c":0,"p":[[-118.2,-856.6],[-134.2,-872.5]]},{"c":0,"p":[[-102.1,-823.0],[-61.8,-830.8],[-53.7,-846.3]]},{"c":0,"p":[[-118.2,-856.6],[-79.1,-871.5]]},{"c":0,"p":[[-141.2,-872.9],[-156.5,-868.3]]},{"c":0,"p":[[-141.2,-872.9],[-159.7,-888.7]]},{"c":0,"p":[[168.4,-999.8],[230.2,-1003.5],[232.1,-988.7]]},{"c":0,"p":[[136.2,-729.1],[137.6,-710.6]]},{"c":0,"p":[[167.1,-1019.4],[163.9,-1065.8]]},{"c":0,"p":[[137.6,-710.6],[142.9,-663.0]]},{"c":0,"p":[[55.9,-1019.3],[47.5,-1032.6]]},{"c":0,"p":[[55.9,-1019.3],[98.3,-1021.6]]},{"c":0,"p":[[175.5,-962.3],[141.8,-961.1]]},{"c":0,"p":[[45.6,-1052.8],[16.1,-1049.0],[18.9,-1029.2]]},{"c":0,"p":[[108.0,-1022.2],[156.0,-1024.8]]},{"c":0,"p":[[45.6,-1052.8],[126.0,-1059.3]]},{"c":0,"p":[[156.0,-1024.8],[159.3,-1056.1],[141.9,-1060.6]]},{"c":0,"p":[[191.9,-955.0],[142.5,-936.6],[141.8,-961.1]]},{"c":0,"p":[[-130.8,-1132.8],[-149.8,-1131.0]]},{"c":0,"p":[[-149.8,-1131.0],[-182.6,-1132.4]]},{"c":0,"p":[[-130.8,-1132.8],[-129.4,-1103.3]]},{"c":0,"p":[[-129.4,-1103.3],[-148.3,-1101.5]]},{"c":0,"p":[[-149.8,-1131.0],[-148.3,-1101.5]]},{"c":0,"p":[[34.7,-1272.6],[45.6,-1186.5]]},{"c":0,"p":[[-148.3,-1101.5],[-174.5,-1099.1]]},{"c":0,"p":[[-129.4,-1103.3],[-80.1,-1107.8]]},{"c":0,"p":[[-182.6,-1132.4],[-199.3,-1198.0]]},{"c":0,"p":[[45.6,-1186.5],[28.0,-1155.1],[-16.7,-1149.8]]},{"c":0,"p":[[-199.3,-1198.0],[-207.3,-1265.8]]},{"c":0,"p":[[-192.8,-1198.6],[-200.8,-1266.3]]},{"c":0,"p":[[-16.7,-1149.8],[-67.9,-1145.1]]},{"c":0,"p":[[-207.3,-1265.8],[-232.5,-1263.7]]},{"c":0,"p":[[164.0,-1346.0],[205.5,-1346.3]]},{"c":0,"p":[[-207.3,-1265.8],[-211.7,-1302.3]]},{"c":0,"p":[[-192.8,-1198.6],[-181.0,-1139.7],[-119.9,-1140.3]]},{"c":0,"p":[[343.3,-1222.1],[350.2,-1160.4]]},{"c":0,"p":[[-182.6,-1132.4],[-188.6,-1100.1]]},{"c":0,"p":[[167.4,-1398.9],[126.3,-1397.6]]},{"c":0,"p":[[169.4,-1430.5],[126.8,-1429.1],[126.3,-1397.6]]},{"c":0,"p":[[126.3,-1397.6],[76.5,-1394.2]]},{"c":0,"p":[[76.5,-1394.2],[85.9,-1345.6]]},{"c":0,"p":[[181.3,-1575.5],[138.2,-1576.3]]},{"c":0,"p":[[76.5,-1394.2],[63.4,-1455.4]]},{"c":0,"p":[[63.4,-1455.4],[64.7,-1479.2]]},{"c":0,"p":[[66.0,-1532.0],[64.7,-1479.2]]},{"c":0,"p":[[296.1,-1588.8],[183.3,-1591.9]]},{"c":0,"p":[[379.6,-1432.3],[383.8,-1377.4]]},{"c":0,"p":[[187.4,-1645.2],[107.2,-1645.4]]},{"c":0,"p":[[63.4,-1455.4],[-33.2,-1453.2]]},{"c":0,"p":[[58.3,-1534.1],[47.2,-1633.0]]},{"c":0,"p":[[293.5,-1373.8],[354.8,-1373.1],[355.0,-1432.4]]},{"c":0,"p":[[251.9,-1694.9],[253.0,-1666.9]]},{"c":0,"p":[[50.8,-1631.0],[97.7,-1631.6]]},{"c":0,"p":[[176.8,-1746.8],[105.5,-1745.8]]},{"c":0,"p":[[38.8,-1724.2],[47.2,-1633.0]]},{"c":0,"p":[[173.4,-1765.1],[90.7,-1765.0]]},{"c":0,"p":[[297.0,-1645.1],[398.9,-1645.9]]},{"c":0,"p":[[332.5,-1754.9],[332.5,-1725.8]]},{"c":0,"p":[[332.5,-1725.8],[332.6,-1709.1]]},{"c":0,"p":[[332.5,-1754.9],[355.0,-1753.3],[356.5,-1726.0]]},{"c":0,"p":[[356.5,-1726.0],[358.7,-1712.9],[365.4,-1725.9]]},{"c":0,"p":[[162.3,-1823.1],[73.9,-1821.6]]},{"c":0,"p":[[90.7,-1765.0],[78.1,-1747.1],[35.8,-1740.5],[38.8,-1724.2]]},{"c":0,"p":[[145.4,-1970.6],[342.0,-1989.3]]},{"c":0,"p":[[459.0,-1860.4],[488.0,-1844.7],[508.8,-1861.9]]},{"c":0,"p":[[414.1,-2091.0],[452.9,-2093.2]]},{"c":0,"p":[[452.9,-2093.2],[489.4,-2096.3]]},{"c":0,"p":[[452.9,-2093.2],[443.8,-2138.2]]},{"c":0,"p":[[452.9,-2093.2],[463.0,-2048.6]]},{"c":0,"p":[[463.0,-2048.6],[514.7,-2052.9]]},{"c":0,"p":[[514.7,-2052.9],[524.4,-2032.2]]},{"c":0,"p":[[514.7,-2052.9],[560.0,-2058.7]]},{"c":0,"p":[[524.4,-2032.2],[560.6,-2037.7]]},{"c":0,"p":[[560.0,-2058.7],[560.6,-2037.7]]},{"c":0,"p":[[560.0,-2058.7],[552.3,-2092.0]]},{"c":0,"p":[[466.3,-2283.1],[398.6,-2278.6]]},{"c":0,"p":[[574.5,-2093.8],[552.3,-2092.0]]},{"c":0,"p":[[560.6,-2037.7],[573.4,-1974.6]]},{"c":0,"p":[[560.6,-2037.7],[644.8,-2048.0]]},{"c":0,"p":[[466.3,-2283.1],[462.8,-2347.4]]},{"c":0,"p":[[566.6,-2152.8],[574.5,-2093.8]]},{"c":0,"p":[[574.5,-2093.8],[674.9,-2110.4]]},{"c":0,"p":[[617.3,-1981.2],[652.6,-1985.9]]},{"c":0,"p":[[562.5,-2197.2],[566.6,-2152.8]]},{"c":0,"p":[[466.3,-2283.1],[473.3,-2187.0]]},{"c":0,"p":[[617.3,-1981.2],[640.6,-1887.7]]},{"c":0,"p":[[512.6,-2191.8],[562.5,-2197.2]]},{"c":0,"p":[[473.3,-2187.0],[475.6,-2139.8]]},{"c":0,"p":[[512.6,-2191.8],[516.8,-2145.0]]},{"c":0,"p":[[513.4,-2144.5],[519.7,-2090.2]]},{"c":0,"p":[[597.1,-2160.9],[597.8,-2219.0]]},{"c":0,"p":[[473.3,-2187.0],[512.6,-2191.8]]},{"c":0,"p":[[385.0,-2442.3],[355.4,-2453.2]]},{"c":0,"p":[[393.9,-2451.2],[445.2,-2454.7]]},{"c":0,"p":[[445.2,-2454.7],[458.7,-2452.0]]},{"c":0,"p":[[587.0,-2284.8],[596.0,-2264.3]]},{"c":0,"p":[[355.4,-2453.2],[261.1,-2443.6]]},{"c":0,"p":[[596.0,-2264.3],[629.4,-2264.7],[632.6,-2226.5]]},{"c":0,"p":[[458.7,-2452.0],[468.1,-2355.5]]},{"c":0,"p":[[587.0,-2284.8],[719.1,-2291.9]]},{"c":0,"p":[[596.0,-2264.3],[600.2,-2236.2]]},{"c":0,"p":[[600.2,-2236.2],[597.8,-2219.0]]},{"c":0,"p":[[600.2,-2236.2],[632.6,-2226.5]]}],"scenes":{"approach":9,"turn":8,"off":{"along":720,"me":[52.9,-753.1],"rejoin":[-6.0,-750.2],"trail":[[-4.6,-720.6],[65.8,-725.8],[136.1,-731.0],[188.6,-734.9],[186.1,-755.5],[134.9,-750.9],[106.7,-747.7],[52.9,-753.1]],"head":-1.670833032269071}}};
 const S = 416, K = S / 200;
@@ -80,9 +80,20 @@ function header(kind, text, frac, color) {
   rr(bx - 2, by - 2, bw + 4, bh + 4, '#000'); rr(bx, by, bw, bh, '#333'); if (frac > 0) rr(bx, by, Math.max(bh, bw*frac), bh, YEL);
   return total;
 }
-function compass(cx, cy) {
-  x.beginPath(); x.arc(cx, cy, 9*K, 0, 7); x.fillStyle = '#000'; x.fill(); x.lineWidth = 1.5*K; x.strokeStyle = '#888'; x.stroke();
-  x.beginPath(); x.moveTo(cx, cy - 6*K); x.lineTo(cx + 3.5*K, cy + 3*K); x.lineTo(cx, cy + 1*K); x.lineTo(cx - 3.5*K, cy + 3*K); x.closePath(); x.fillStyle = '#ccc'; x.fill();
+// North indicator (Draw.north): red half = north, letter U just outside the ring; turns with the map.
+function north() {
+  const cx = S*0.82, cy = S*0.36, r = 11*K, ang = -HEAD;
+  x.beginPath(); x.arc(cx, cy, r, 0, 7); x.fillStyle = '#000'; x.fill(); x.lineWidth = 1.2*K; x.strokeStyle = '#777'; x.stroke();
+  x.save(); x.translate(cx, cy); x.rotate(ang);
+  x.beginPath(); x.moveTo(0, -8*K); x.lineTo(3.2*K, 0); x.lineTo(-3.2*K, 0); x.closePath(); x.fillStyle = RED; x.fill();
+  x.beginPath(); x.moveTo(0, 8*K); x.lineTo(3.2*K, 0); x.lineTo(-3.2*K, 0); x.closePath(); x.fillStyle = '#bbb'; x.fill();
+  x.restore();
+  const lx = cx + Math.sin(ang)*(r + 6.5*K), ly = cy - Math.cos(ang)*(r + 6.5*K);
+  const U = [[-2.3,-3.3],[-2.3,1.6],[-1.2,3.3],[1.2,3.3],[2.3,1.6],[2.3,-3.3]];
+  for (const [col, w] of [['#000', 3.2*K], ['#fff', 1.3*K]]) {
+    x.beginPath(); U.forEach((p, i) => i ? x.lineTo(lx + p[0]*K, ly + p[1]*K) : x.moveTo(lx + p[0]*K, ly + p[1]*K));
+    x.strokeStyle = col; x.lineWidth = w; x.stroke();
+  }
 }
 const km = a => ((TOTAL - a) / 1000).toFixed(1) + ' km lagi';
 const foot = t => halo(t, 11*K, S/2, 172*K, '#bbb');
@@ -94,6 +105,7 @@ function nav(ti, ahead) {
   ME = at(along); HEAD = brg(along - 15);
   streets(); routeLine(along); you(S/2, meY);
   header(t[1] > 0 ? 'right' : 'left', round5(ahead) + ' m', Math.min(1, Math.max(0, 1 - ahead/300)));
+  north();
   foot(km(along));
 }
 
@@ -113,20 +125,22 @@ if (s === 'approach') {
   x.beginPath(); x.arc(r[0], r[1], 5*K, 0, 7); x.fillStyle = RED; x.fill();
   you(S/2, meY);
   const w = header('back', round5(Math.hypot(o.rejoin[0]-o.me[0], o.rejoin[1]-o.me[1])) + ' m', null, RED);
-  compass(S/2 + 40*K, 36*K + 30*K);
+  north();
   foot(km(o.along));
-} else if (s === 'ready') {
+} else if (s === 'ready' || s === 'ready-dest') {
+  // ready = saved loop (Monas), ready-dest = saved point-to-point route to a destination (Malioboro)
+  const dest = s === 'ready-dest', PTS = dest ? R : LOOP;
   halo('Rute siap', 14*K, S/2, 40*K, GREEN);
   // whole route north-up, fitted in a box like drawMiniRoute (the start point is a white dot)
   let mnx = 1e9, mxx = -1e9, mny = 1e9, mxy = -1e9;
-  for (const p of LOOP) { mnx = Math.min(mnx, p[0]); mxx = Math.max(mxx, p[0]); mny = Math.min(mny, p[1]); mxy = Math.max(mxy, p[1]); }
+  for (const p of PTS) { mnx = Math.min(mnx, p[0]); mxx = Math.max(mxx, p[0]); mny = Math.min(mny, p[1]); mxy = Math.max(mxy, p[1]); }
   const size = S * 0.36, k = size / Math.max(mxx - mnx, mxy - mny), cx = S/2, cy = S * 0.45;
   const P = p => [cx + (p[0] - (mnx+mxx)/2) * k, cy - (p[1] - (mny+mxy)/2) * k];
-  x.beginPath(); LOOP.forEach((p, i) => { const q = P(p); i ? x.lineTo(q[0], q[1]) : x.moveTo(q[0], q[1]); });
+  x.beginPath(); PTS.forEach((p, i) => { const q = P(p); i ? x.lineTo(q[0], q[1]) : x.moveTo(q[0], q[1]); });
   x.strokeStyle = BLUE; x.lineWidth = 6; x.stroke();
-  const a = P(LOOP[0]); x.beginPath(); x.arc(a[0], a[1], 6, 0, 7); x.fillStyle = '#fff'; x.fill();
-  let len = 0; for (let i = 1; i < LOOP.length; i++) len += Math.hypot(LOOP[i][0]-LOOP[i-1][0], LOOP[i][1]-LOOP[i-1][1]);
-  halo('Loop Monas 10K', 14*K, S/2, S * 0.70, '#fff');
+  const a = P(PTS[0]); x.beginPath(); x.arc(a[0], a[1], 6, 0, 7); x.fillStyle = '#fff'; x.fill();
+  let len = 0; for (let i = 1; i < PTS.length; i++) len += Math.hypot(PTS[i][0]-PTS[i-1][0], PTS[i][1]-PTS[i-1][1]);
+  halo(dest ? 'Malioboro Pagi' : 'Loop Monas 10K', 14*K, S/2, S * 0.70, '#fff');
   halo((len/1000).toFixed(1) + ' km · tap untuk ganti', 10*K, S/2, S * 0.80, '#bbb');
   halo('Peta siap ✓', 10*K, S/2, S * 0.89, GREEN);
 }

diff --git a/README.md b/README.md
@@ -15,7 +15,8 @@ No new watch, no subscription, no paid app.
 
 - Next-turn arrow with distance and a yellow countdown bar (full = turn now)
 - **One** vibration about 20 m before each turn
-- Off-route alert with a red line back to the route — explore side streets and always know the way back (explore mode turns the vibration off)
+- Off-route alert (one short vibration) with a red dashed line back to the route — explore side streets and always know the way back
+- North indicator that turns with the heading-up map
 - Simple route line drawn in code on a black screen (light on the AMOLED battery), no map tiles
 - **Light street map**: the roads (thicker) and alleys (thin) around your route as plain lines, downloaded once with the route and then fully offline
 - 5 saved routes on the watch, choose by tapping the screen — no phone or internet needed once saved
@@ -82,7 +83,8 @@ Open NavG adalah **data field Connect IQ** gratis dan open-source yang menambahk
 
 - Panah belokan berikutnya + jarak + bar kuning hitung mundur (penuh = belok sekarang)
 - **Satu** getar sekitar 20 m sebelum belok
-- Peringatan keluar jalur dengan garis merah ke rute — bebas masuk gang tapi selalu tahu jalan balik (mode jelajah mematikan getarnya)
+- Peringatan keluar jalur (satu getar singkat) dengan garis putus-putus merah ke rute — bebas masuk gang tapi selalu tahu jalan balik
+- Penunjuk utara yang ikut berputar bersama peta
 - Garis rute sederhana digambar dengan kode di latar hitam (hemat baterai AMOLED), tanpa peta gambar
 - **Peta ringan**: jalan (tebal) dan gang (tipis) di sekitar rute berupa garis, diunduh sekali bersama rute lalu sepenuhnya offline
 - 5 rute tersimpan di jam, pilih dengan tap layar — tanpa HP/internet setelah tersimpan
